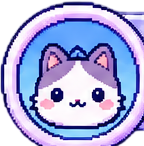
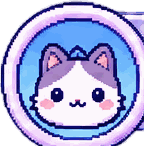
Мини-апп: сжатие ассетов PNG8 (730КБ→160КБ), Cache-Control на статику, preload ключевых картинок, сердечки → чип настроения «💜 100%»

diff --git a/webapp/index.html b/webapp/index.html
@@ -4,6 +4,10 @@
 <meta charset="utf-8">
 <meta name="viewport" content="width=device-width, initial-scale=1, maximum-scale=1, user-scalable=no">
 <script src="https://telegram.org/js/telegram-web-app.js"></script>
+<link rel="preload" as="image" href="/assets/room.png">
+<link rel="preload" as="image" href="/assets/pet.png">
+<link rel="preload" as="image" href="/assets/avatar.png">
+<link rel="preload" as="image" href="/assets/face_1.png">
 <title>🐣 Питомец</title>
 <style>
   :root {
@@ -58,15 +62,13 @@
     box-shadow: var(--shadow); font-size: 13px; font-weight: 700;
   }
   .pill img { width: 16px; height: 16px; }
-  .hearts { display: flex; gap: 1px; }
-  .hearts img { width: 14px; height: 14px; }
 
   main { flex: 1; padding: 0 12px 84px; }
 
   /* --- room --- */
   .room {
     position: relative; border-radius: var(--r); overflow: hidden;
-    box-shadow: var(--shadow); background: #fff;
+    box-shadow: var(--shadow); background: var(--cream);
   }
   .room > .roomimg { width: 100%; display: block; }
   .petwrap {
@@ -257,7 +259,7 @@
     </div>
     <div class="pills">
       <div class="pill"><img src="/assets/coin.png" alt=""><span id="coinVal">0</span></div>
-      <div class="pill hearts" id="heartsBox"></div>
+      <div class="pill" id="moodPill" title="Настроение"><img src="/assets/heart_full.png" alt=""><span id="moodVal">—</span></div>
     </div>
   </header>
 
@@ -453,16 +455,8 @@ function renderAcc() {
   layer.appendChild(img);
 }
 
-function renderHearts(mood) {
-  var box = $('heartsBox');
-  box.innerHTML = '';
-  var full = Math.ceil(mood / 20);
-  for (var i = 0; i < 5; i++) {
-    var img = document.createElement('img');
-    img.src = '/assets/' + (i < full ? 'heart_full.png' : 'heart_empty.png');
-    img.alt = '';
-    box.appendChild(img);
-  }
+function renderMood(mood) {
+  $('moodVal').textContent = mood + '%';
 }
 
 function xpInfo(p) {
@@ -479,7 +473,7 @@ function render(p) {
   $('petName').textContent = p.name;
   $('coinVal').textContent = p.coins;
   $('shopCoins').textContent = p.coins;
-  renderHearts(p.mood);
+  renderMood(p.mood);
 
   var xp = xpInfo(p);
   $('xpFill').style.width = xp.pct + '%';

diff --git a/tools/optimize_assets.py b/tools/optimize_assets.py
@@ -1,0 +1,46 @@
+#!/usr/bin/env python3
+"""Квантование PNG-ассетов мини-аппа в палитровый формат (PNG8).
+
+Пиксель-арт имеет мало уникальных цветов, поэтому палитровое PNG весит
+в разы меньше truecolor-PNG без видимой потери качества. Запуск:
+    ./venv/bin/python tools/optimize_assets.py [каталог]
+По умолчанию обрабатывает webapp/assets. Файлы перезаписываются на месте.
+"""
+import sys
+from pathlib import Path
+
+from PIL import Image
+
+MAX_COLORS = 128
+
+
+def optimize(path: Path) -> None:
+    img = Image.open(path)
+    before = path.stat().st_size
+    if img.mode in ('P', '1'):
+        print(f'{path.name}: уже палитровый ({before} B), пропуск')
+        return
+    # FASTOCTREE — единственный метод, корректно работающий с RGBA
+    pal = img.quantize(colors=MAX_COLORS, method=Image.FASTOCTREE,
+                       dither=Image.Dither.NONE)
+    pal.save(path, optimize=True)
+    after = path.stat().st_size
+    print(f'{path.name}: {before} -> {after} B (-{100 - after * 100 // before}%)')
+
+
+def main() -> None:
+    root = Path(sys.argv[1]) if len(sys.argv) > 1 else Path('webapp/assets')
+    files = sorted(root.glob('*.png'))
+    if not files:
+        print(f'нет PNG в {root}')
+        return
+    total_before = total_after = 0
+    for f in files:
+        optimize(f)
+    for f in files:
+        total_before += f.stat().st_size
+    print(f'итого по {len(files)} файлам: {total_before} B')
+
+
+if __name__ == '__main__':
+    main()

diff --git a/bot/server.py b/bot/server.py
@@ -141,6 +141,16 @@ def build_web_app(app, bot_token: str, webapp_html: str,
     application.add_routes(routes)
     if assets_dir is not None:
         application.router.add_static('/assets/', str(assets_dir))
+
+    @web.middleware
+    async def assets_cache(request: web.Request, handler):
+        response = await handler(request)
+        if request.path.startswith('/assets/'):
+            # ассеты неизменяемы: имена файлов фиксированы
+            response.headers['Cache-Control'] = 'public, max-age=604800, immutable'
+        return response
+
+    application.middlewares.append(assets_cache)
     return application
 
 

diff --git a/tools/crop_assets.py b/tools/crop_assets.py
@@ -106,7 +106,9 @@ def crop_all(sheet: bool) -> None:
         bbox = (max(0, bbox[0] - pad), max(0, bbox[1] - pad),
                 min(cell.width, bbox[2] + pad), min(cell.height, bbox[3] + pad))
         sprite = cell.crop(bbox)
-        sprite.save(OUT / ('%s.png' % name))
+        # палитровое PNG (PNG8): пиксель-арт весит в разы меньше
+        sprite.quantize(colors=128, method=Image.FASTOCTREE,
+                        dither=Image.Dither.NONE).save(OUT / ('%s.png' % name))
         crops[name] = sprite
         print('%-12s %dx%d' % (name, sprite.width, sprite.height))
     if sheet:
